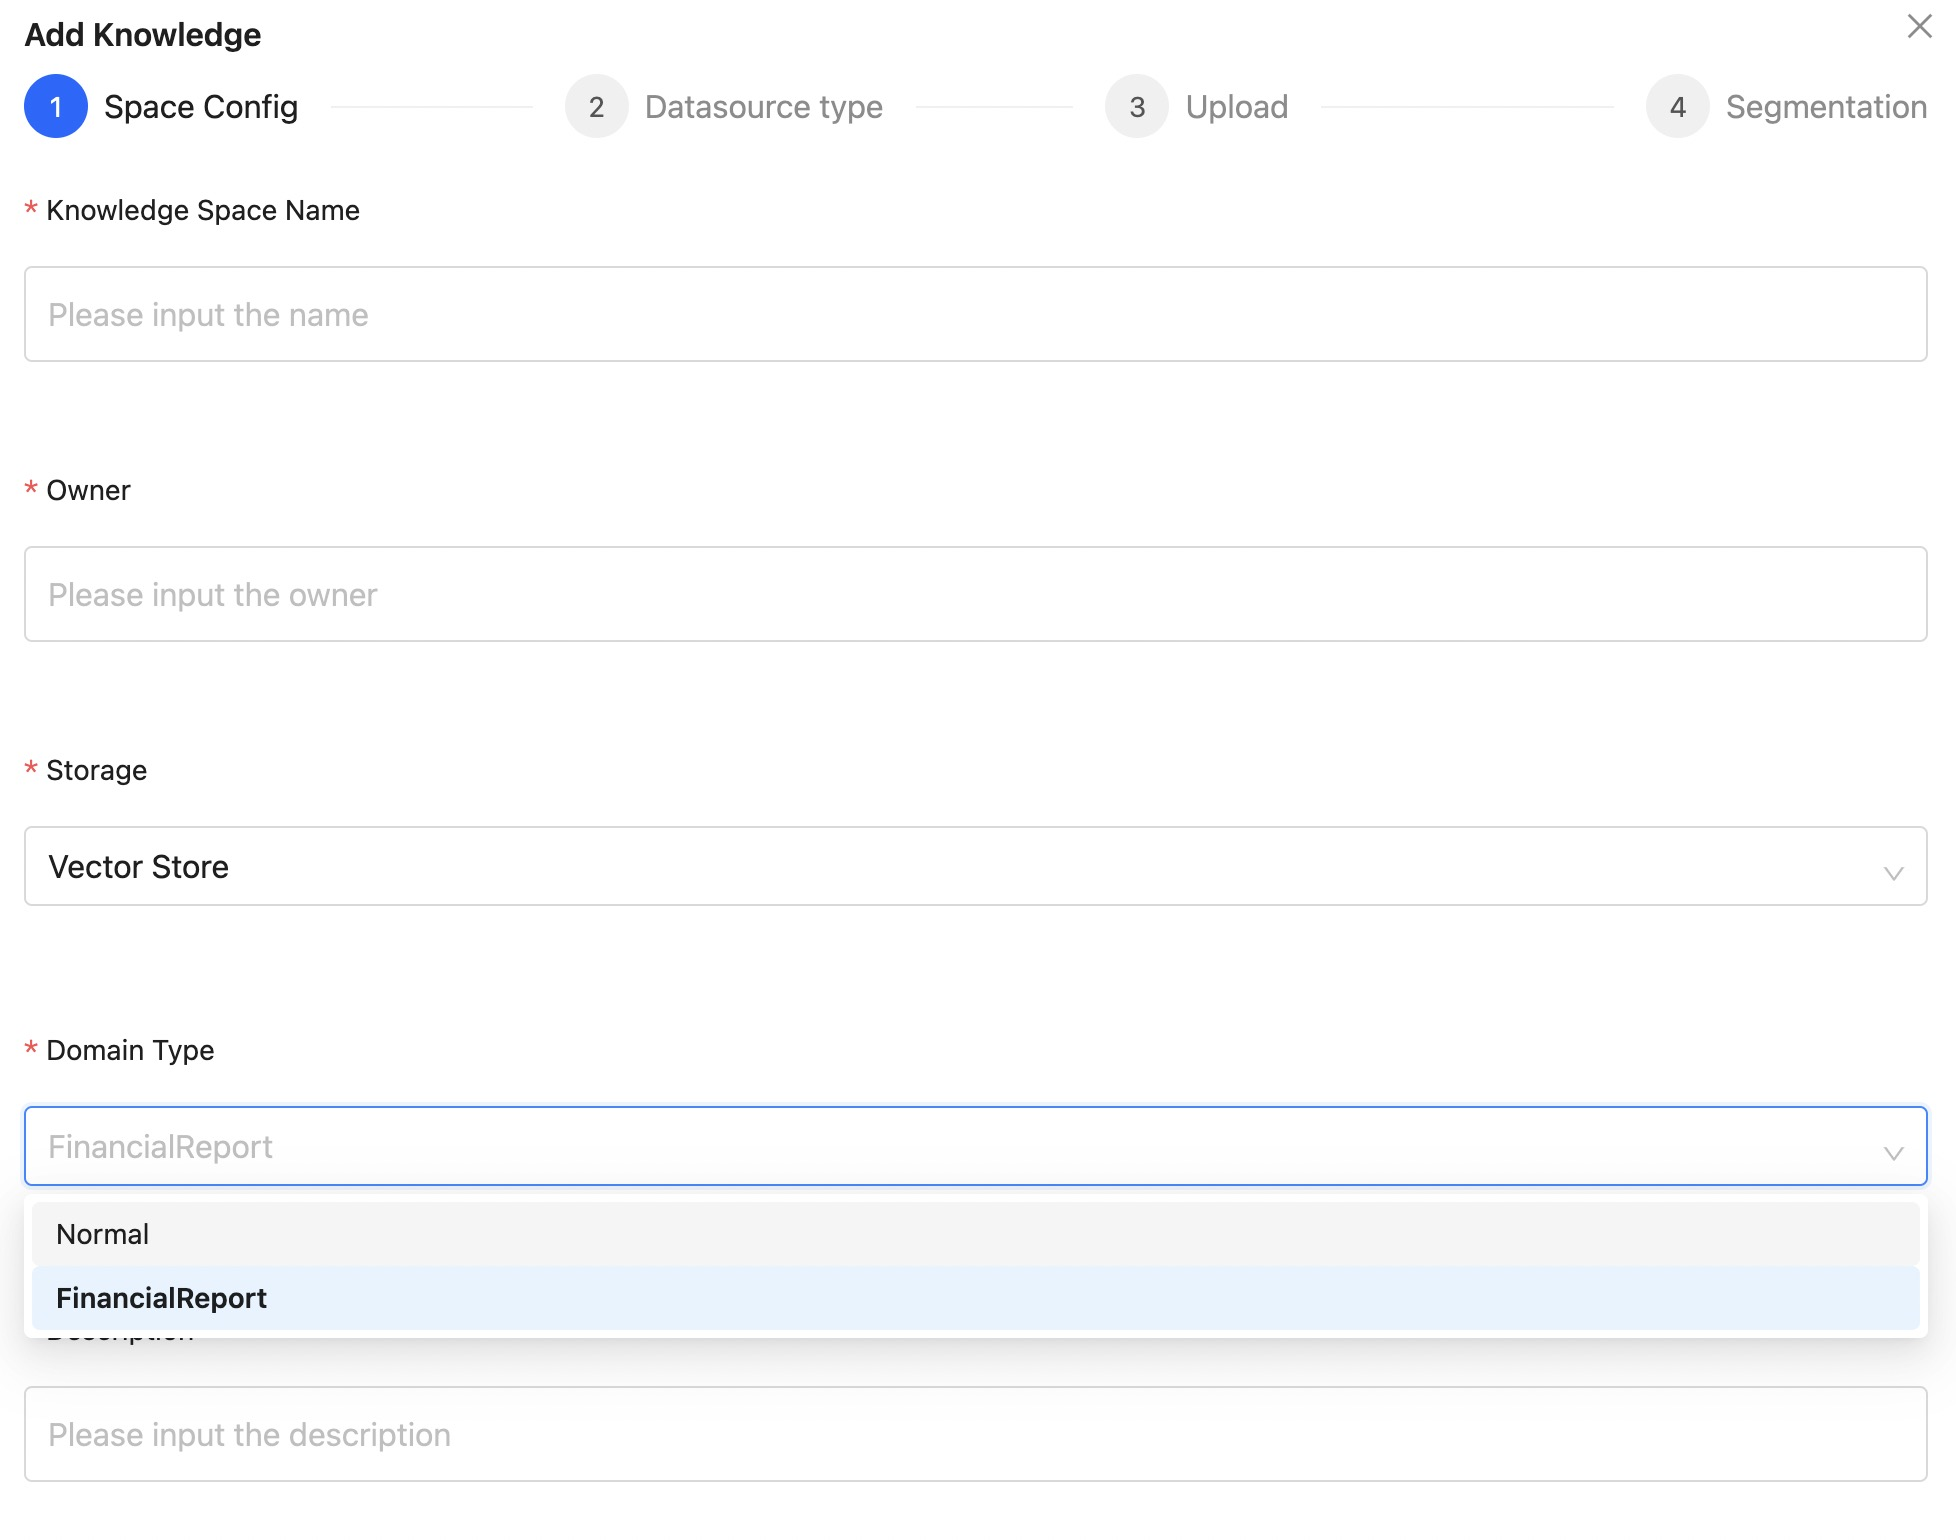
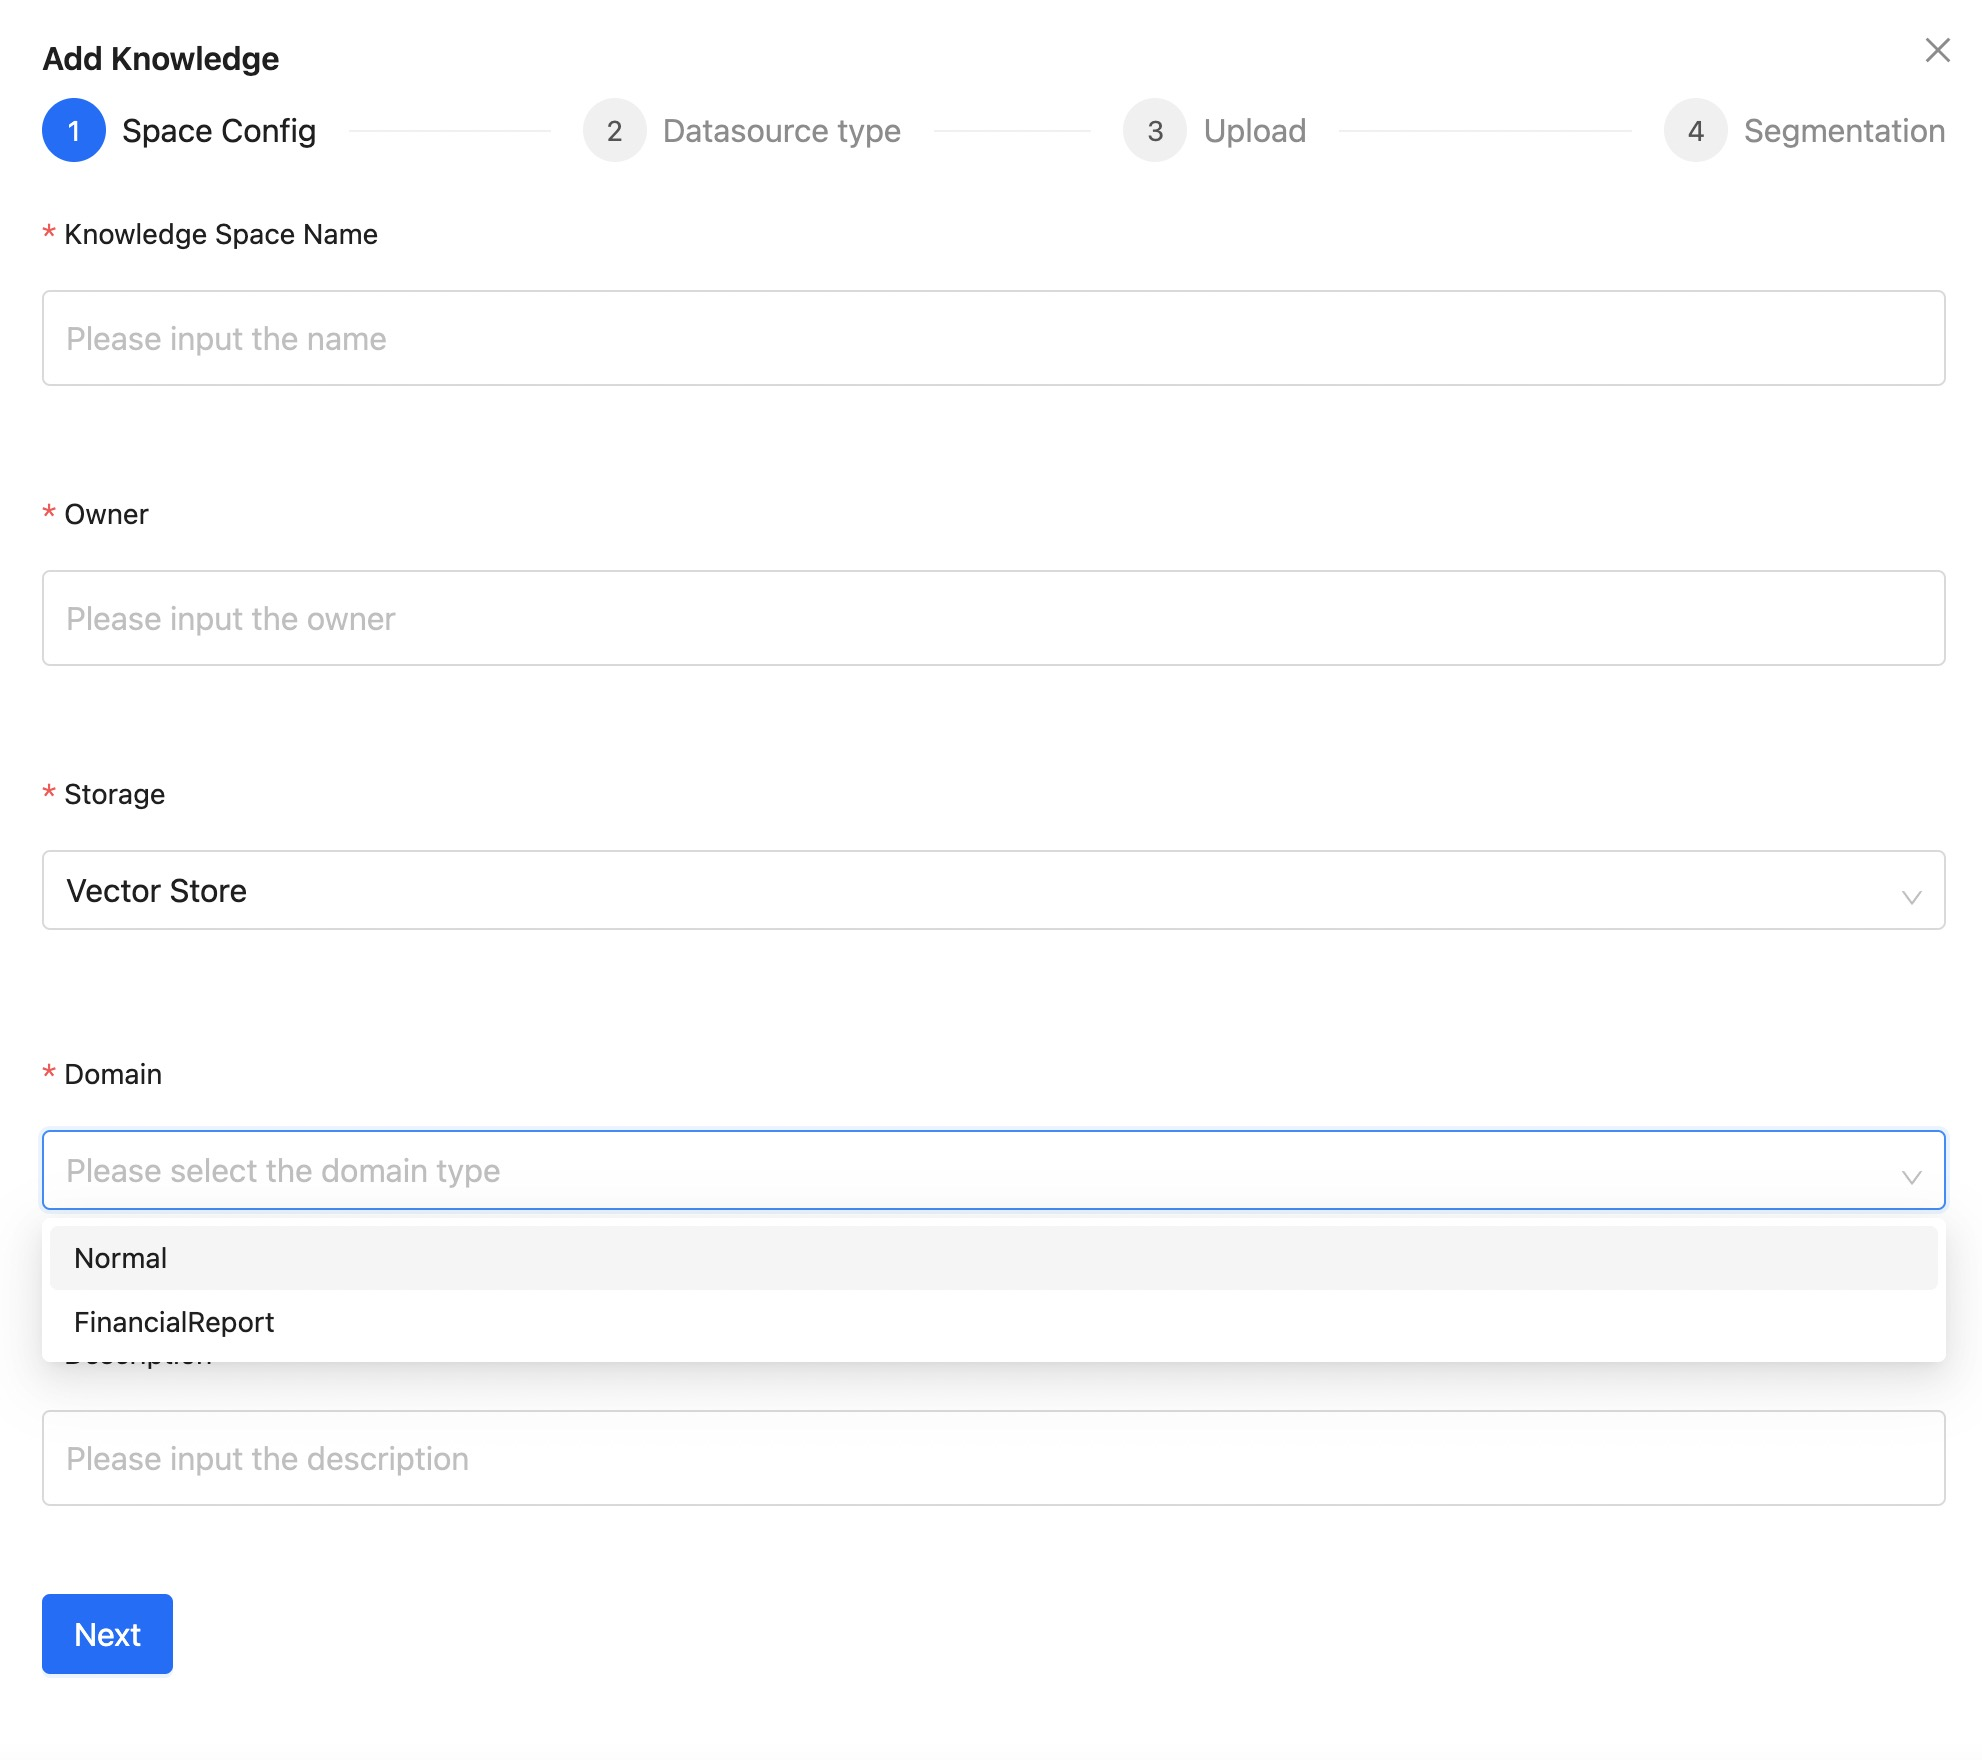
feat:add financial report how to use doc. (#1757)

diff --git a/docs/docs/application/started_tutorial/chat_financial_report.md b/docs/docs/application/started_tutorial/chat_financial_report.md
@@ -1,10 +1,20 @@
-# Chat With Financial Report 
-    
-   Recently, financial analysis with the help of large models is becoming a popular application in vertical fields. Large models can not only understand complex financial rules more accurately than humans, but can also output reasonable analysis results based on professional knowledge. Many cutting-edge solutions have provided answers such as RAG and Agent. However, financial statement information is large and complex, and the accuracy of data analysis is extremely high. It is difficult for general solutions to meet these needs.
+# Chat With Financial Report
+   Financial report analysis using large models is becoming a popular application in vertical fields. Large models can not only understand complex financial rules more accurately than humans, but can also output reasonable analysis results based on professional knowledge. 
+   
+Using AWEL to build a financial report knowledge building workflow and a financial report intelligent Q&A workflow app can help users 
+- answer basic information questions about financial reports
+- financial report indicator calculation and analysis questions
+- financial report content analysis questions.
 
-For example, when a user queries "What is the operating net profit of XXX subsidiary in 2022?", the conventional method is to recall the most relevant text blocks for summary and question and answer through knowledge vector similarity retrieval and matching. However, the annual financial report contains many relevant information that may lead to misjudgment. If you cannot accurately recall and understand the correct part, it is easy to generate wrong answers.
+#### financial report knowledge building workflow
+<p align="left">
+  <img src={'/img/chat_knowledge/fin_report/knowledge_workflow.png'} width="1000px"/>
+</p>
 
-In order to overcome some obstacles in the application of large models, we need to combine the knowledge background in the financial field and add specialized external modules to enhance its functions. This article will take DB-GPT's Awel orchestration mode as an example, and use several key atoms of DB-GPT-Hub to describe how to use large models to conduct effective financial report data analysis.
+#### a financial report intelligent robot workflow 
+<p align="left">
+  <img src={'/img/chat_knowledge/fin_report/financial_robot_chat.png'} width="1000px"/>
+</p>
 
 # How to Use
 Upload financial report pdf and chat with financial report
@@ -29,12 +39,13 @@ scene3:analyze financial report
 # How to Install
 
 Step 1: make sure your dbgpt version is >=0.5.10
-```
+
 Step 2: upgrade python dependencies
 ```
 pip install pdfplumber
 pip install fuzzywuzzy
 ```
+
 Step 3: install financial report app from dbgpts
 ```
 # install poetry
@@ -45,8 +56,7 @@ dbgpt app install financial-robot-app financial-report-knowledge-factory
 
 ```
 
-Step4: 
-download pre_trained embedding model from https://www.modelscope.cn/models/AI-ModelScope/bge-large-zh-v1.5
+Step 4: download pre_trained embedding model from https://www.modelscope.cn/models/AI-ModelScope/bge-large-zh-v1.5
 ```
 git clone https://www.modelscope.cn/models/AI-ModelScope/bge-large-zh-v1.5
 ```
@@ -58,14 +68,22 @@ git clone https://www.modelscope.cn/models/AI-ModelScope/bge-large-zh-v1.5
 FIN_REPORT_MODEL=/app/DB-GPT/models/bge-large-zh-v1.5
 ```
 
-Step 4: create FinancialReport knowledge space
-![image](https://github.com/user-attachments/assets/90d938f0-e09f-49f2-8f8b-fa69ef6f8ae6)
+Step 5: create  knowledge space, choose `FinancialReport` doamin type
+<p align="left">
+  <img src={'/img/chat_knowledge/fin_report/financial_space.png'} width="1000px"/>
+</p>
 
-Step 5: upload financial report from `docker/examples/fin_report`
-![upload_report](https://github.com/eosphoros-ai/DB-GPT/assets/13723926/4630f226-4bd6-4645-858a-bd3cde4e4789)
-Step 6:  automatic segment and wait for a while
-![process_log](https://github.com/eosphoros-ai/DB-GPT/assets/13723926/0506dd86-4089-4ba4-8589-b617afc0eafe)
-Step 7:  chat with financial report
+
+Step 6: upload financial report from `docker/examples/fin_report`, if your want to use the financial report dataset, you can download from modelscope.
+```bash
+git clone http://www.modelscope.cn/datasets/modelscope/chatglm_llm_fintech_raw_dataset.git
+```
+Step 7:  automatic segment and wait for a while
+
+Step 8:  chat with financial report
+<p align="left">
+  <img src={'/img/chat_knowledge/fin_report/chat.jpg'} width="1000px"/>
+</p>
 
 
 

diff --git a/docs/docs/awel/cookbook/first_rag_with_awel.md b/docs/docs/awel/cookbook/first_rag_with_awel.md
@@ -85,8 +85,8 @@ vector_store = ChromaStore(
     vector_store_config=ChromaVectorConfig(
         name="test_vstore",
         persist_path="/tmp/awel_rag_test_vector_store",
-    ),
-    embedding_fn=embeddings
+        embedding_fn=embeddings
+    )
 )
 
 with DAG("load_knowledge_dag") as knowledge_dag:
@@ -275,8 +275,8 @@ vector_store = ChromaStore(
     vector_store_config=ChromaVectorConfig(
         name="test_vstore",
         persist_path="/tmp/awel_rag_test_vector_store",
+        embedding_fn=embeddings
     ),
-    embedding_fn=embeddings
 )
 
 with DAG("load_knowledge_dag") as knowledge_dag:
